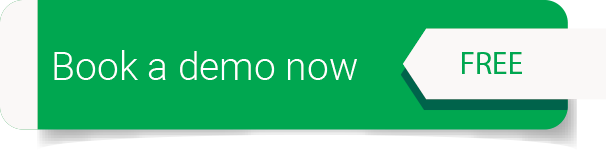
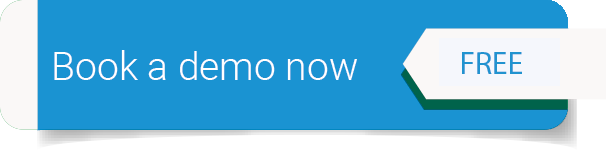
updated for bg

diff --git a/css/custom.css b/css/custom.css
@@ -101,14 +101,14 @@ left: 170px; }
 .helensection .leftsection{padding-top:80px;}
 .helensection .leftsection h1{color:#000000; font-size:38px; margin-top:0; font-weight:300;}
 .helensection .leftsection p{font-size:22px; color:#515251; line-height:1.3; margin-bottom:15px;}
-.btn-green{background:#00a750; color:#fff; border-radius:0; padding:12px 26px;}
-.btn-green:hover{background:#023219; color:#fff;}
+.btn-green{background: rgba(18,149,216,1);background: linear-gradient(305deg, #6eb2bd 0%, #6eb2bd 20%, #1295d8 100%); color:#fff; border-radius:0; padding:12px 26px;}
+.btn-green:hover{background: rgba(18,149,216,1);background: linear-gradient(05deg, #6eb2bd 0%, #6eb2bd 50%, #1295d8 100%); color:#fff;}
 
 
 /********************************/
 /*          Why Helen Section   */
 /********************************/
-.whysection{background:#4379bc; padding:82px 0px;}
+.whysection{background: rgba(18,149,216,1);background: linear-gradient(305deg, #6eb2bd 0%, #6eb2bd 20%, #1295d8 100%); padding:82px 0px;}
 .whysection h2{font-size:40px; color:#fff; text-align:center; padding-bottom:25px; margin-top:0; font-weight:300;}
 .newcol{text-align:center;}
 .newcol h3{font-size:22px; color:#fff;}
@@ -187,7 +187,7 @@ box-shadow: -1px 1px 12px -3px rgba(110,109,110,1);}
 /********************************/
 /*         Teastimonial Section   */
 /********************************/
-.testimonialsection{background:#2971b9; padding:50px 0px;}
+.testimonialsection{background: rgba(18,149,216,1);background: linear-gradient(305deg, #6eb2bd 0%, #6eb2bd 20%, #1295d8 100%); padding:50px 0px;}
 .testimonialsection h2, .mediasection h2{margin-top:0; color:#fff; font-weight:300; font-size:36px;}
 .testimonialsection p, .mediasection p{color:#fff; font-size:16px; font-weight:300;}
 .owl-theme .owl-dots .owl-dot span{width:50px !important; height:2px !important;}
@@ -262,7 +262,7 @@ object-fit: cover;
 /********************************/
 /*         Book Demo Section   */
 /********************************/
-.booksection{background:url(../images/booksectionbg.png) no-repeat center center #2771b9; background-size:cover; padding:95px 0px 65px;}
+.booksection{/*background:url(../images/booksectionbg.png) no-repeat center center #2771b9;*/ background: rgba(18,149,216,1);background: linear-gradient(305deg, #6eb2bd 0%, #6eb2bd 20%, #1295d8 100%); background-size:cover; padding:95px 0px 65px;}
 .bookleft h3{font-size:50px; color:#fff; font-weight:300;}
 .bookleft p{font-size:32px; color:#fff; font-weight:300;}
 
@@ -281,14 +281,14 @@ object-fit: cover;
 /********************************/
 /*         Query Section   */
 /********************************/
-.querysection{background:#fef0ef; padding:50px 0px 100px;}
+.querysection{background:#e9f6fa; padding:50px 0px 100px;}
 .headingsection{text-align:center;}
 .headingsection h2{padding-bottom:15px;}
 .headingsection p{font-size:17px; color:#353f55;}
 .queryform{width:100%; max-width:810px; margin:40px auto 0px;}
 .queryform .form-control{margin-bottom:10px; border-radius:0; border:0; resize:none; box-shadow:none;}
-.queryform .btn{width:100%; background:#f38193; border:1px solid #e27083; margin-top:15px;}
-.queryform .btn:hover{background:#68323a; border:1px solid #68323a;}
+.queryform .btn{width:100%;{background: rgba(18,149,216,1);background: linear-gradient(305deg, #6eb2bd 0%, #6eb2bd 20%, #1295d8 100%); border:1px solid #269ace; margin-top:15px;}
+.queryform .btn:hover{background: rgba(18,149,216,1);background: linear-gradient(05deg, #6eb2bd 0%, #6eb2bd 50%, #1295d8 100%); border:1px solid #68323a;}
 
 /********************************/
 /*         Team Page Section   */
